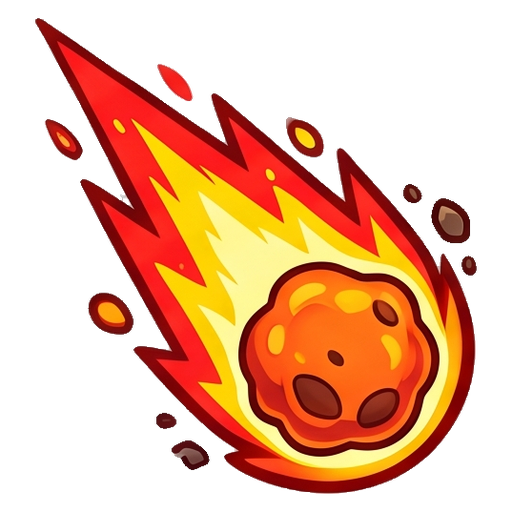
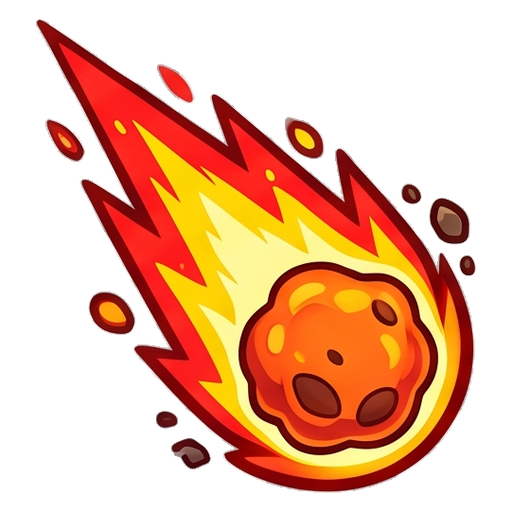
Os 12 icones da interface, e um recorte com bordos melhores
A folha unica resolveu o que tinha falhado: pedidos em grelha de 4x3, com fundo
cinzento liso, os doze icones vieram inteiros a primeira. Ficam em
assets/ui/icons com 256x256 -- quatro vezes o tamanho a que aparecem no HUD.

O recorte passou a ter alfa em rampa em vez de corte seco. O corte seco deixava
a aureola cinzenta do jpeg a volta das figuras, e apaga-la com uma erosao comia
os contornos finos: a bandeira branca ficava com o traco aos bocados. Com a
rampa, o pixel deixa de ser opaco a medida que se aproxima do cinzento do fundo.

Duas correcoes que vieram com isto:

- O fundo deixou de ser dois tons soltos e passou a ser a banda inteira entre
  eles. Num xadrez, o degrau entre os dois cinzentos tambem e fundo, e antes
  ficava meio opaco agarrado as figuras.
- Com os nomes dados, as figuras sao as N pecas maiores. O limite de area fixo
  perdia as figuras magras -- o visto e a bandeira ficavam de fora.

As tropas e os feiticos foram cortados outra vez com o metodo novo.

diff --git a/scripts/cut-sheet.py b/scripts/cut-sheet.py
@@ -1,6 +1,6 @@
 """Recorta uma folha de arte gerada por IA em PNGs soltos com fundo transparente.
 
-    python -I scripts/cut-sheet.py <folha> <pasta-destino> [nome1,nome2,...]
+    python -I scripts/cut-sheet.py <folha> <pasta-destino> [nome1,nome2,...] [lado]
 
 Os modelos de imagem falham a transparência quase sempre: devolvem o xadrez
 *pintado* ou um fundo liso. Este script resolve isso de fora.
@@ -26,7 +26,8 @@ from PIL import Image, ImageFilter
 
 SCALE = 4  # a ligação decide-se em miniatura; o recorte é no tamanho real
 SAT = 16  # acima disto a cor tem matiz e não é fundo neutro
-TOL = 14
+TOL = 10
+RAMP = 22  # degraus de cor entre transparente e opaco
 MIN_AREA = 3000  # em pixeis da miniatura, para ignorar sujidade do jpeg
 OUT_SIZE = 512
 
@@ -55,7 +56,8 @@ def main(argv: list[str]) -> int:
         print(__doc__)
         return 2
     src, out_dir = argv[1], argv[2]
-    names = argv[3].split(",") if len(argv) > 3 else []
+    names = argv[3].split(",") if len(argv) > 3 and argv[3] else []
+    size = int(argv[4]) if len(argv) > 4 else OUT_SIZE
 
     im = Image.open(src).convert("RGB")
     W, H = im.size
@@ -65,12 +67,37 @@ def main(argv: list[str]) -> int:
         return 1
     print(f"{W}x{H}, fundo nos cinzentos {tones}")
 
+    lo, hi = min(tones) - TOL, max(tones) + TOL
+
+    def gap(v: int) -> int:
+        """A que distância este cinzento está da banda do fundo.
+
+        Com um xadrez são dois tons, e o degrau entre eles também é fundo — daí
+        ser uma banda inteira e não dois valores soltos.
+        """
+        if v < lo:
+            return lo - v
+        if v > hi:
+            return v - hi
+        return 0
+
     def is_bg(rgb) -> bool:
         r, g, b = rgb
         if max(r, g, b) - min(r, g, b) > SAT:
             return False
-        v = (r + g + b) // 3
-        return any(abs(v - t) <= TOL for t in tones)
+        return gap((r + g + b) // 3) == 0
+
+    def opacity(rgb) -> int:
+        """Transparência em rampa, em vez de tudo ou nada.
+
+        Um corte seco deixava a auréola cinzenta do jpeg à volta das figuras, e
+        apagá-la com uma erosão comia os contornos finos: a bandeira branca
+        ficava com o traço aos bocados. A rampa resolve as duas coisas.
+        """
+        r, g, b = rgb
+        if max(r, g, b) - min(r, g, b) > SAT:
+            return 255
+        return max(0, min(255, gap((r + g + b) // 3) * 255 // RAMP))
 
     sw, sh = W // SCALE, H // SCALE
     spx = im.resize((sw, sh), Image.NEAREST).load()
@@ -110,10 +137,13 @@ def main(argv: list[str]) -> int:
         if m:
             groups.setdefault(m, []).append(i)
 
-    anchors = [m for m, px in groups.items() if len(px) >= MIN_AREA]
+    # Com os nomes dados, as figuras são simplesmente as N peças maiores: um
+    # limite de área fixo falhava nas figuras magras (o visto, a bandeira).
+    by_area = sorted(groups, key=lambda m: -len(groups[m]))
+    anchors = by_area[:len(names)] if names else [m for m in by_area if len(groups[m]) >= MIN_AREA]
     print(f"{len(groups)} peças, {len(anchors)} figuras")
-    if names and len(anchors) != len(names):
-        print(f"esperava {len(names)} figuras — ajusta MIN_AREA ou os nomes")
+    if len(anchors) < len(names):
+        print(f"só encontrei {len(anchors)} peças para {len(names)} nomes")
         return 1
 
     def centre(ids: list[int]) -> tuple[float, float]:
@@ -152,9 +182,8 @@ def main(argv: list[str]) -> int:
         a = alpha.load()
         for y in range(H):
             for x in range(W):
-                if big[x, y] and not is_bg(full[x, y]):
-                    a[x, y] = 255
-        alpha = alpha.filter(ImageFilter.MinFilter(3))  # come o halo do jpeg
+                if big[x, y]:
+                    a[x, y] = opacity(full[x, y])
 
         piece = im.copy()
         piece.putalpha(alpha)
@@ -165,7 +194,7 @@ def main(argv: list[str]) -> int:
         canvas = Image.new("RGBA", (side + pad * 2, side + pad * 2), (0, 0, 0, 0))
         canvas.alpha_composite(piece, ((canvas.size[0] - piece.size[0]) // 2,
                                        (canvas.size[1] - piece.size[1]) // 2))
-        canvas = canvas.resize((OUT_SIZE, OUT_SIZE), Image.LANCZOS)
+        canvas = canvas.resize((size, size), Image.LANCZOS)
 
         name = names[index] if names else f"{index + 1:02d}"
         canvas.save(os.path.join(out_dir, name + ".png"))

diff --git a/docs/ui-prompt-gemini.md b/docs/ui-prompt-gemini.md
@@ -179,7 +179,7 @@ Gelo — cristal azul com flocos de neve em volta
 **Ficou bom:** os painéis, os botões e as 10 figuras do Prompt C. Estão em
 `assets/ui/`, já cortadas e com fundo transparente.
 
-**Falhou:** os 11 ícones do Prompt B. Vieram todos em grande plano e cortados —
+**Falhou à primeira:** os 11 ícones do Prompt B (resolvidos pelo Prompt D). Vieram todos em grande plano e cortados —
 pedaços de forma sem se perceber o que são, e três em branco. O padrão é claro:
 **pedir um desenho pequeno num ficheiro só dele faz o modelo encher a tela e
 cortar.** O Prompt C correu bem precisamente por ser o contrário: dez figuras
@@ -233,3 +233,26 @@ O script tira o fundo (só o que estiver ligado à moldura, para não abrir bura
 no branco das figuras), separa por peças ligadas em vez de cortar em grelha — a
 maça do gigante e a chama do meteoro sobrepunham-se em x e um corte a direito
 estragava as duas — e grava cada figura centrada em 512x512.
+
+
+## Resultado do Prompt D — os 12 ícones
+
+Correu bem à primeira: os doze numa folha 4x3, fundo cinzento liso, todos
+inteiros. Estão em `assets/ui/icons/` com 256x256 cada.
+
+```bash
+python -I scripts/cut-sheet.py <folha> assets/ui/icons "coin,trophy,timer,units,ready,sell,surrender,leaderboard,tutorial,play,admin,coinbag" 256
+```
+
+**Confirma-se a regra:** uma folha com muitas figuras pequenas funciona; um
+desenho pequeno sozinho num ficheiro não. Quando faltar um ícone, pedir uma
+folha com ele e mais alguns, nem que seja para deitar fora os outros.
+
+## Inventário
+
+| pasta | ficheiros | tamanho |
+|---|---|---|
+| `assets/ui/troops/` | soldier, spearman, archer, shieldbearer, knight, fire_mage, healer, giant | 512x512 |
+| `assets/ui/spells/` | meteor, freeze | 512x512 |
+| `assets/ui/icons/` | coin, coinbag, trophy, timer, units, ready, sell, surrender, leaderboard, tutorial, play, admin | 256x256 |
+| `assets/ui/pieces/` | button_green, button_grey, button_red, button_round, panel, pill, progress_fill, progress_track, hint_strip, card_frame, badge_star | vários |
